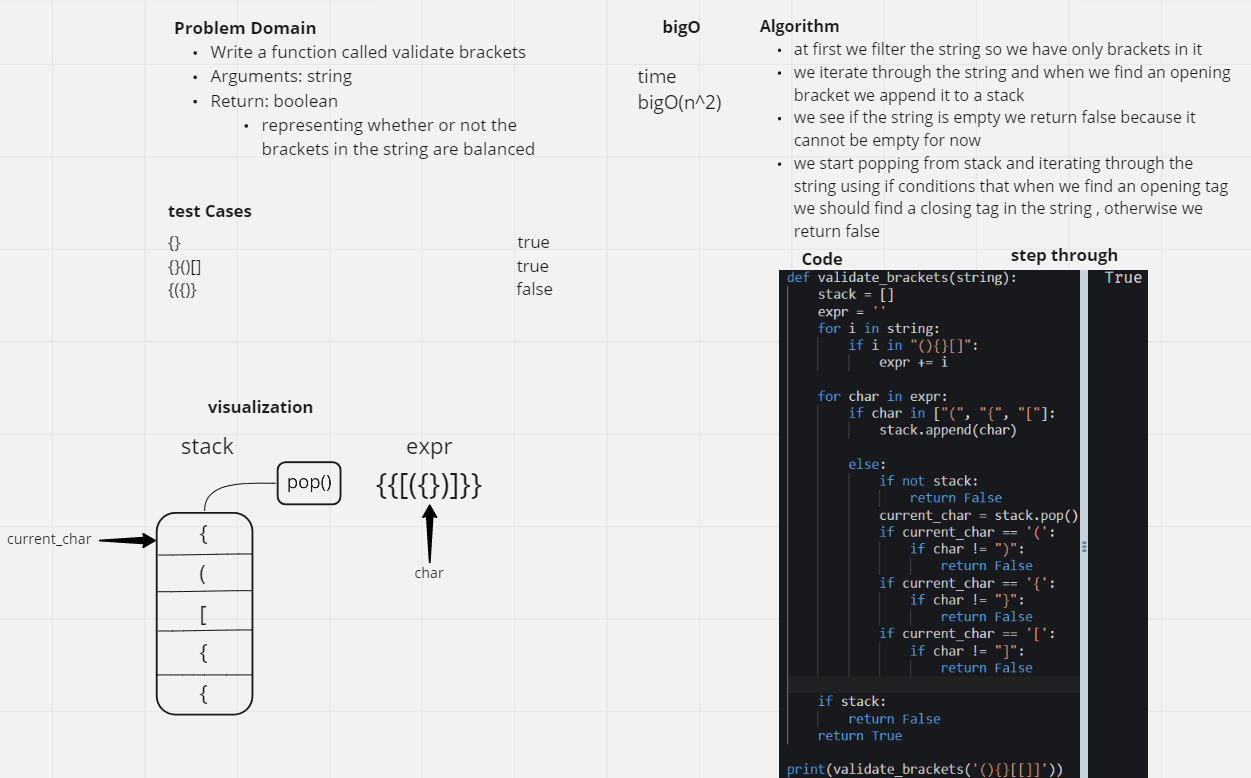
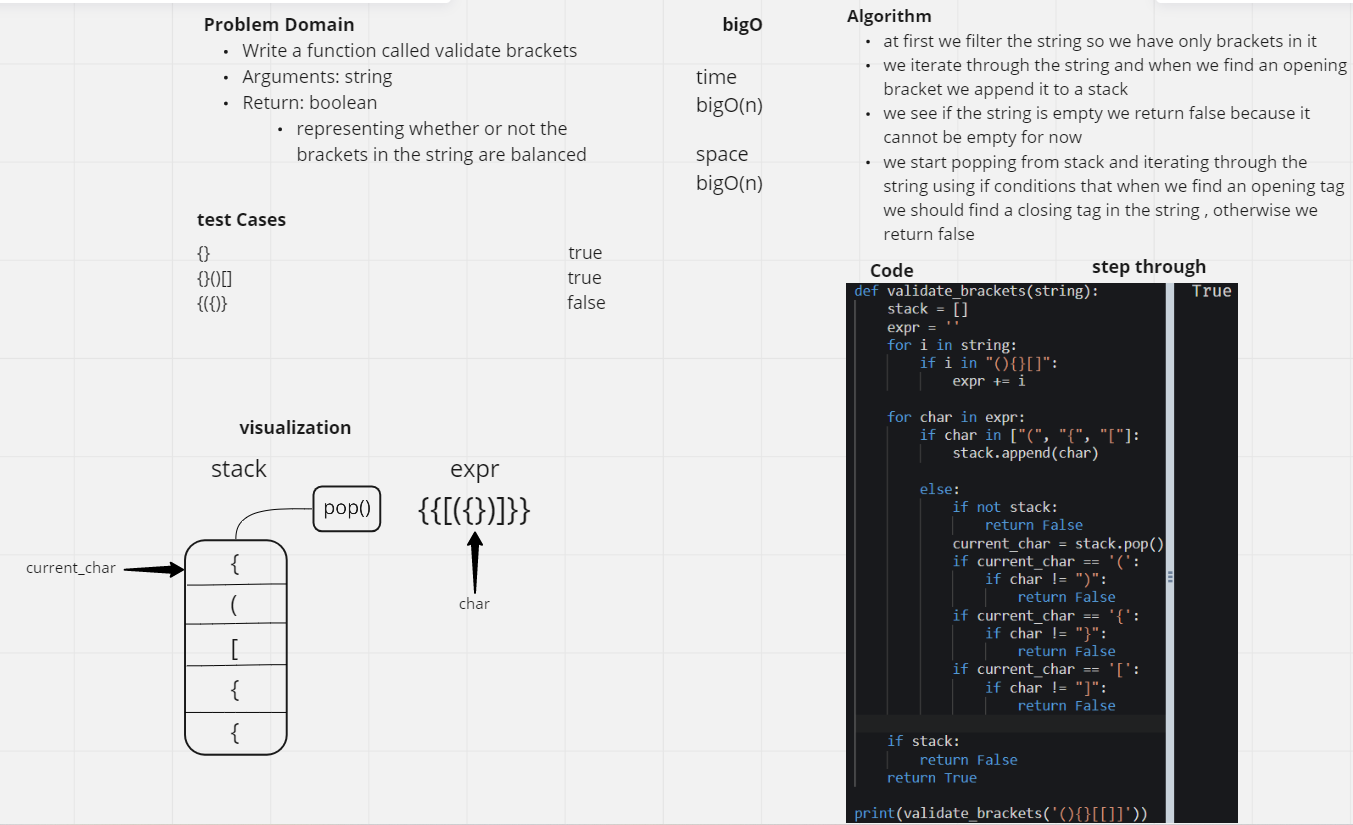
fixed

diff --git a/StackQueueBrackets/README.md b/StackQueueBrackets/README.md
@@ -8,7 +8,8 @@ representing whether or not the brackets in the string are balanced
 <!-- Embedded whiteboard image -->
 ![](assets/WhiteBoard.png)
 ## Approach & Efficiency
-#### bigO (n^2)
+#### Time Complexity : bigO (n)
+#### Space Complexity : bigO (n)
 at first we filter the string so we have only brackets in it
 we iterate through the string and when we find an opening bracket we append it to a stack
 we see if the string is empty we return false because it cannot be empty for now
